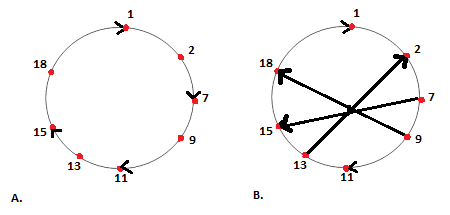
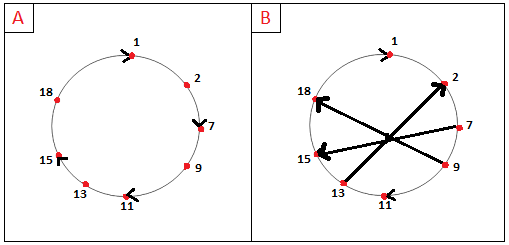
Update circular DHT image

diff --git a/arquitetura.html b/arquitetura.html
@@ -150,7 +150,9 @@
 							<p class="paragraphText"><span class="spaceTab"></span>Uma abordagem mais efetiva consiste em atribuir um identificador a cada nó, onde cada identificador é um número inteiro de 0 a 2^(n-1). De modo que o número de vizinhos por nó e número de mensagens por consulta seja mantido em um tamanho aceitável, uma forma de fazer isso é usar a sobreposição circular.</p>
 							<li><b>Circular Distributed Hash Table</b></li>
 							<p class="paragraphText"><span class="spaceTab"></span>Para lidar com o problema de escalabilidade, podemos organizar os nós em um círculo. Onde cada nó só mantém o controle do seu sucessor imediato. Particularmente, cada nó só conhece, seu sucessor imediato e seu antecessor imediato. </p>
-							<a href="#" class="image text"><img src="images/DHT_circular.png" alt=""></a>
+							<br>
+							<div class="4u 6u(3) centerImage size1"><span class=" image fit"><img src="images/DHT_circular.png" alt="" /></span></div>
+							<br>
 							<p class="paragraphText"><span class="spaceTab"></span>Por exemplo (figura A): Supondo que o nó 7 deseja se comunicar com o nó responsável pela chave 15, para inserir ou consultar um par (valor, chave). Usando a sobreposição circular, o nó 7 envia uma mensagem para o seu sucessor imediato, o nó 9, perguntando quem é o responsável pela chave 15. O nó 9 não é o responsável pela chave 15, logo ele repassa a mensagem para o seu sucessor imediato. Assim o DHT circular fornece uma solução para reduzir a quantidade de informações de sobreposição que cada nó deve gerenciar.</p>
 							<p class="paragraphText"><span class="spaceTab"></span>Porém, essa solução apresenta outro problema, para encontrar o nó responsável por uma determinada chave, no pior dos casos, todos os N nós no DHT terão que encaminhar uma mensagem ao redor do círculo.</p>
 							<p class="paragraphText"><span class="spaceTab"></span>Podemos melhorar ainda mais a sobreposição circular, adicionando atalhos para que cada par não apenas acompanhe seu sucessor imediato, mas também de um número pequeno de pares atalhos espalhados no círculo. Reduzindo consideravelmente o número de mensagens usadas para processar uma consulta (facilita o roteamento de mensagens de uma busca).</p>
